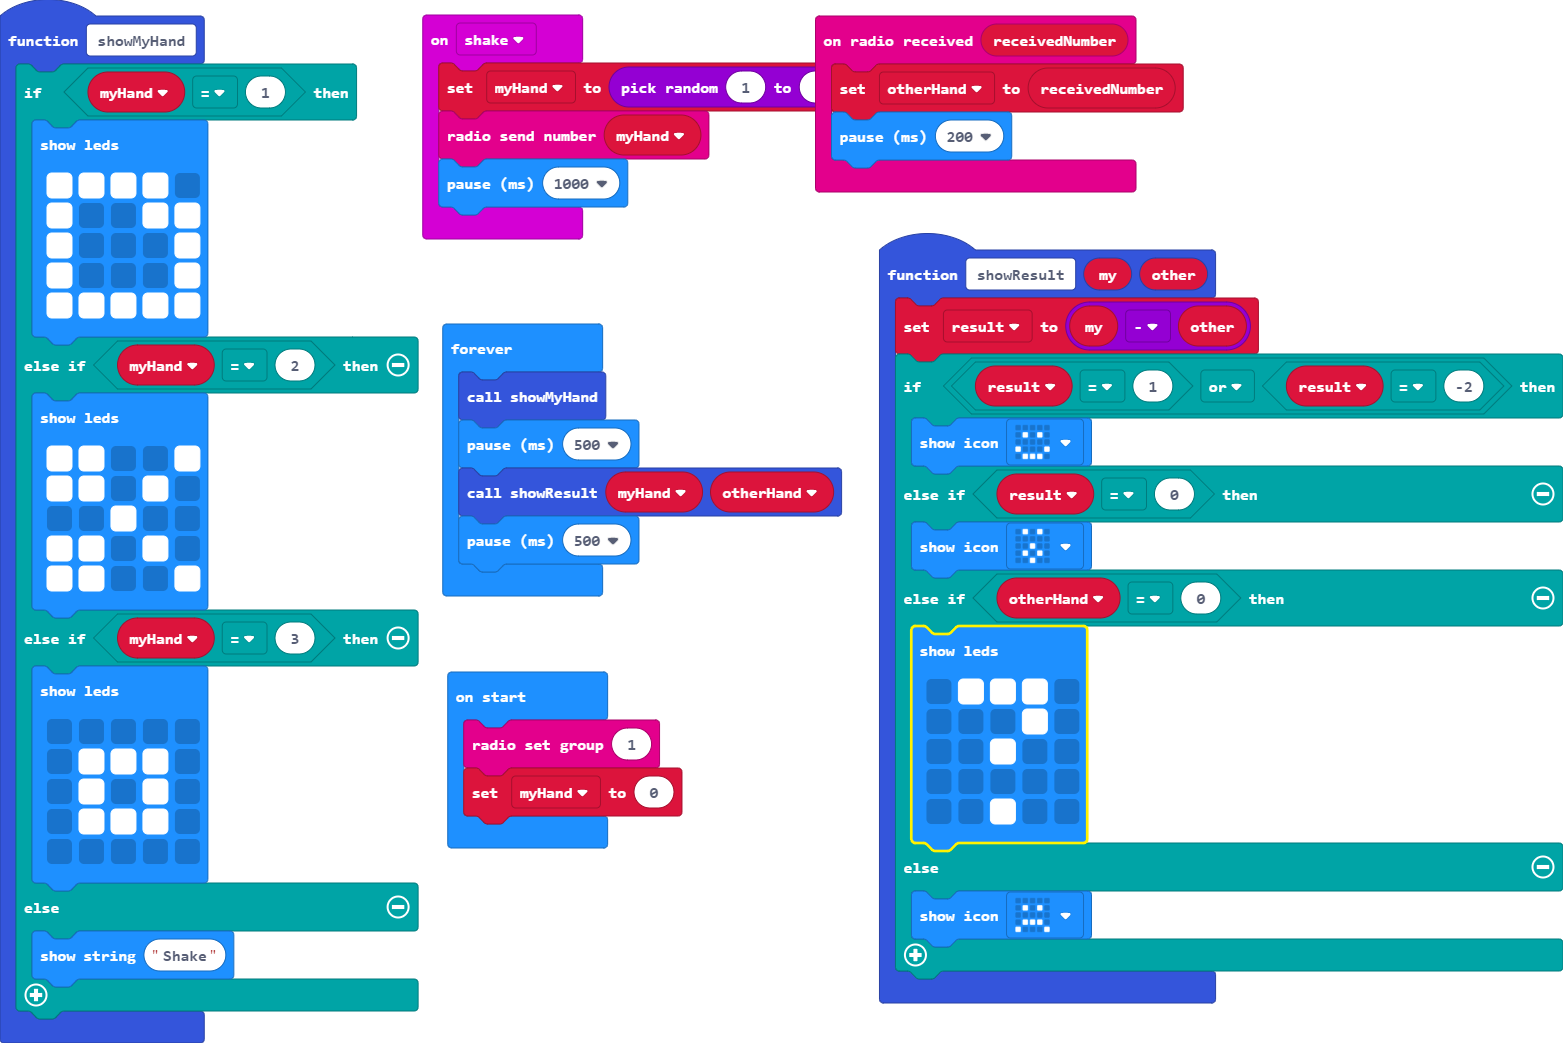
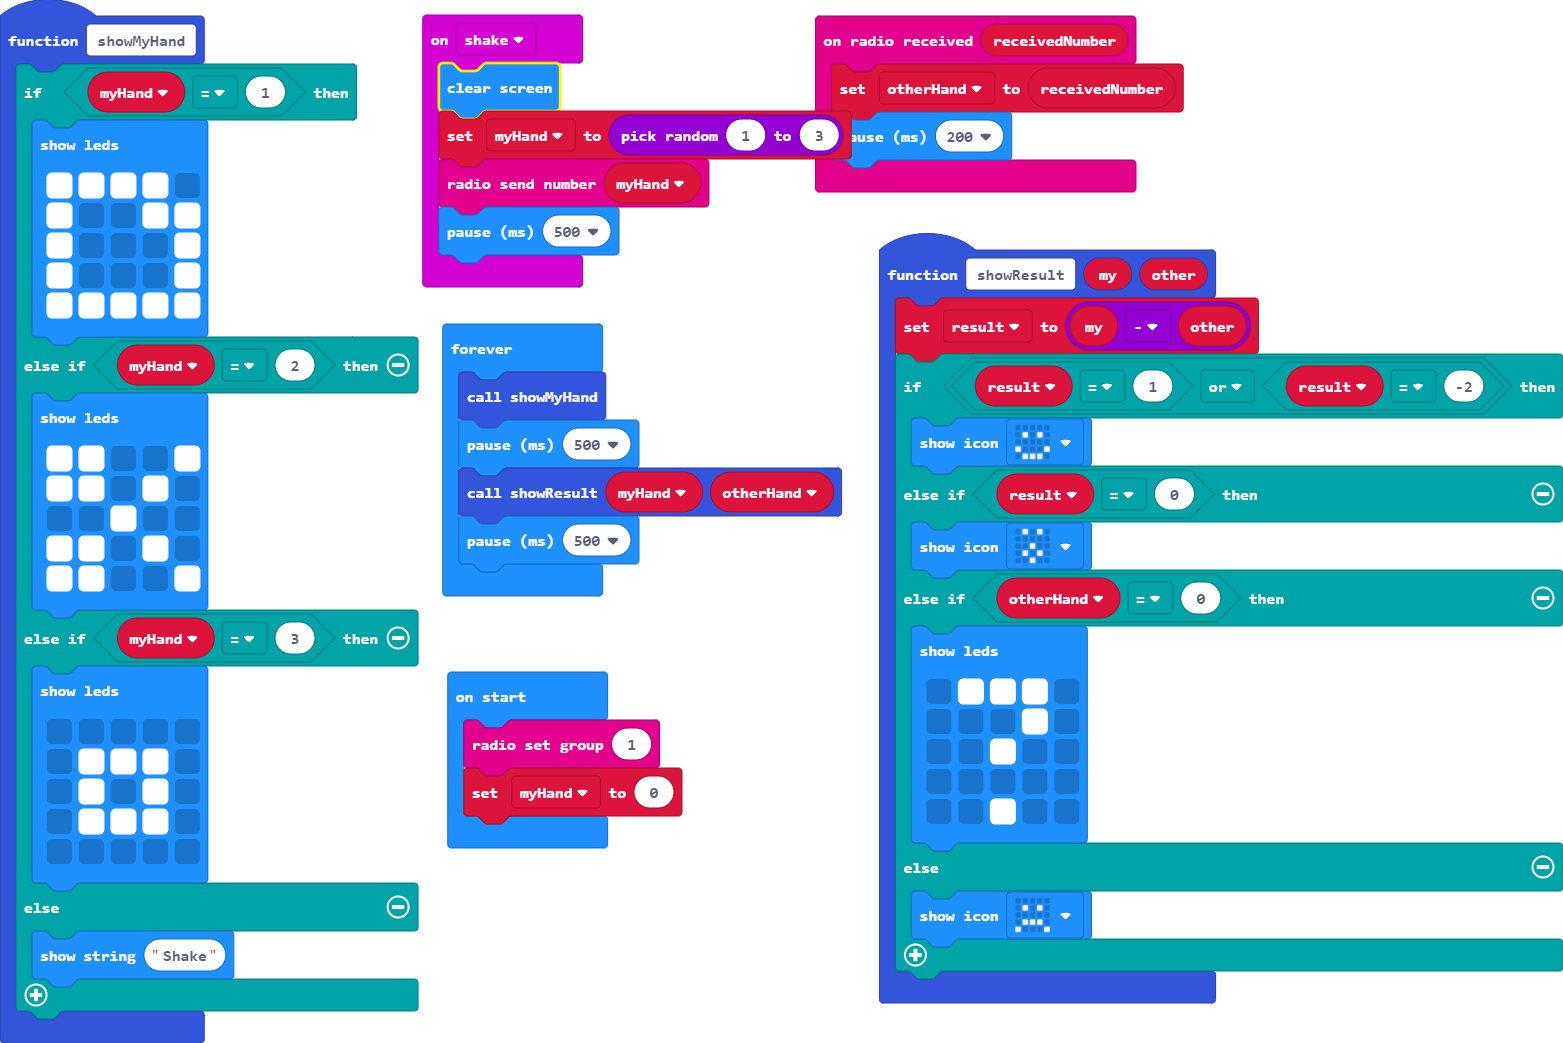
Update main.blocks, main.ts

Changed region(s): [[0.2457, 0.0614, 0.5528, 0.2761], [0.5835, 0.7977, 0.7063, 0.8284], [0.5835, 0.5829, 0.7063, 0.6136]]

diff --git a/main.ts b/main.ts
@@ -28,9 +28,10 @@ function showMyHand () {
     }
 }
 input.onGesture(Gesture.Shake, function () {
+    basic.clearScreen()
     myHand = Math.randomRange(1, 3)
     radio.sendNumber(myHand)
-    basic.pause(1000)
+    basic.pause(500)
 })
 function showResult (my: number, other: number) {
     result = my - other
